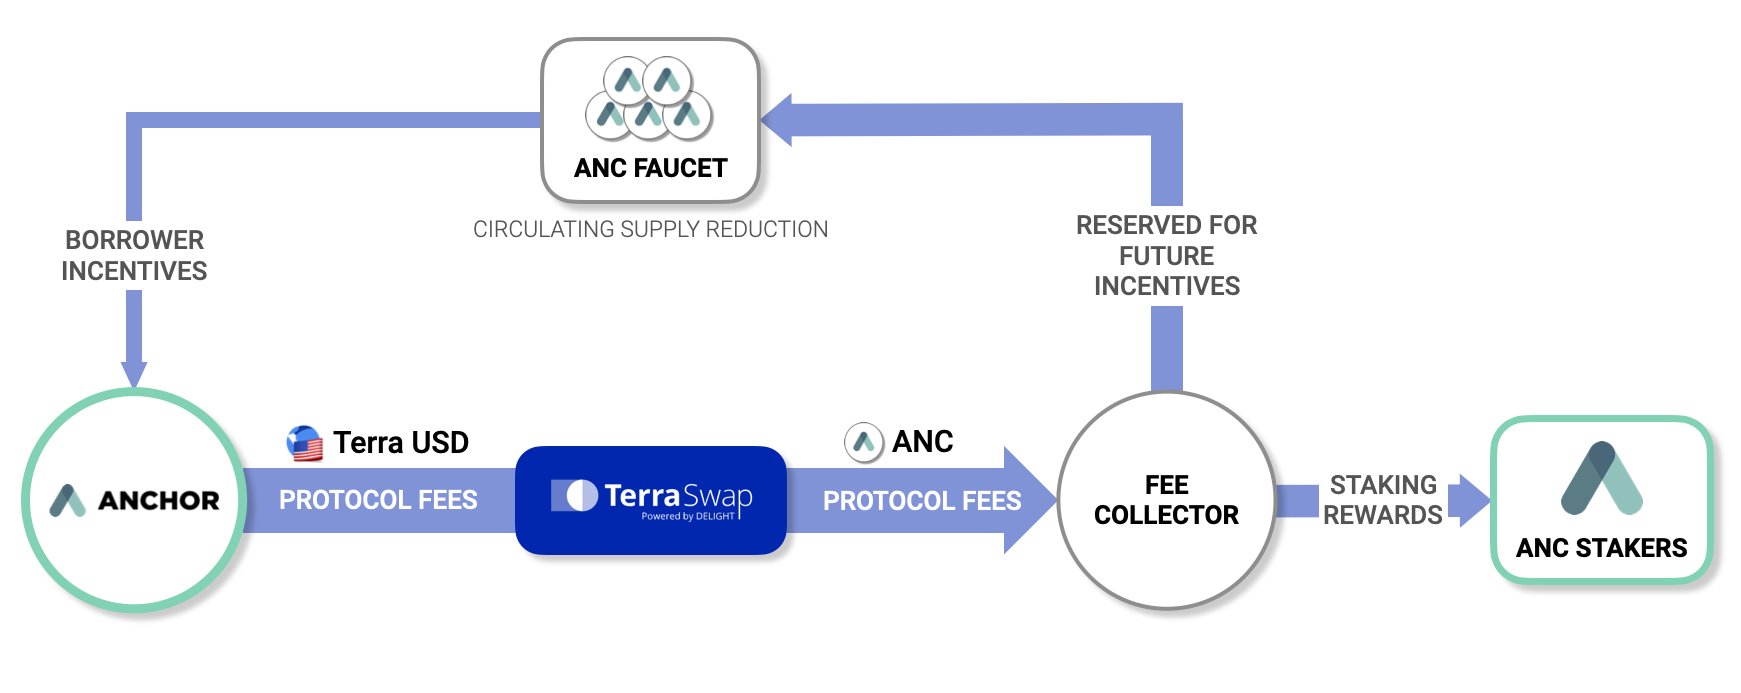
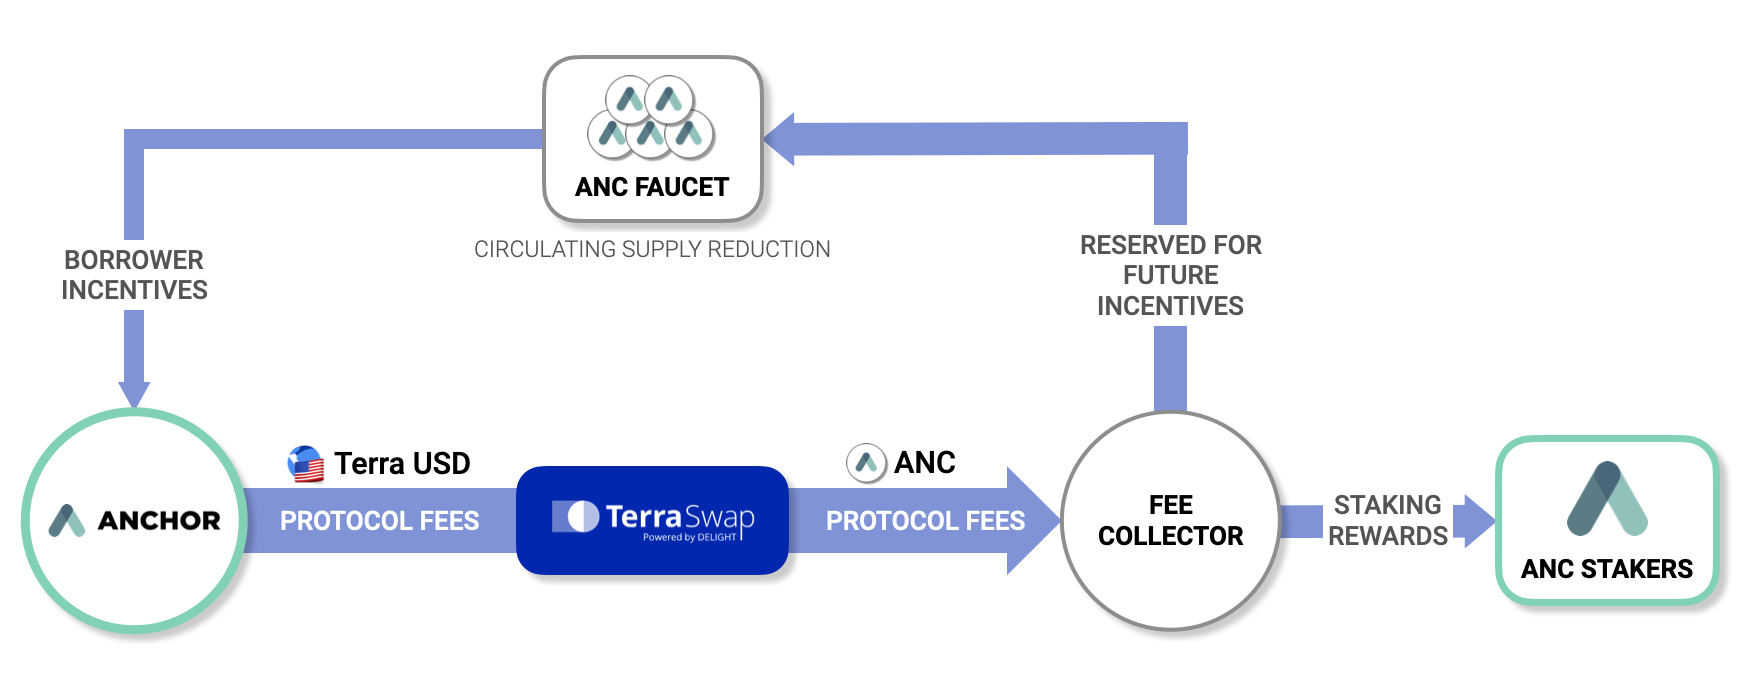
GitBook: [master] 57 pages and 16 assets modified

Changed region(s): [[0.0, 0.0303, 0.9925, 0.9394], [0.031, 0.303, 0.1241, 0.4545]]

diff --git a/user-guide/anchor-webapp.md b/user-guide/anchor-webapp.md
@@ -1,0 +1,134 @@
+# Anchor WebApp
+
+**The Anchor WebApp is the official web frontend for interacting with Anchor Protocol on the Terra network. It is located at** [**https://app.anchorprotocol.com**](https://app.anchorprotocol.com/)**.**
+
+The Anchor WebApp offers a graphical user interface for accessing Anchor's core user operations, such as depositing & redeeming Terra stablecoins, borrowing Terra stablecoins with bAssets as collateral, and participating in Anchor governance.
+
+{% hint style="warning" %}
+The Mirror web app requires [Google Chrome](https://www.google.com/chrome/) and [Station Extension](https://chrome.google.com/webstore/detail/terra-station/aiifbnbfobpmeekipheeijimdpnlpgpp) to be installed. Please follow the instructions below to set up your browser to be able to access the WebApp.
+{% endhint %}
+
+## Terra Station Extension
+
+{% hint style="warning" %}
+As of February 16th, 2021, Station Extension is only available for Chromium-based web browsers.
+{% endhint %}
+
+Station Extension is a Chrome extension that lets you interact with smart contract web frontends with a wallet embedded in your browser. When interacting with Anchor Protocol through the WebApp, the application will generate a transaction for you in the proper format that encodes your desired interaction. Station Extension will detect and prompt you to sign and broadcast it to actually execute the operation.
+
+### Installing Station Extension
+
+1. Run [Google Chrome](https://www.google.com/chrome/). Station Extension is only available for Chromium-based web browsers.   
+2. Install Station Extension [here](https://chrome.google.com/webstore/detail/terra-station/aiifbnbfobpmeekipheeijimdpnlpgpp?hl=en). 
+3. **Terra Station** should now be visible on your extensions tray. 
+
+### Creating a new wallet
+
+1. Open **Station Extension**
+
+2. Select **New Wallet**
+
+![](../.gitbook/assets/picture-1%20%282%29.png)
+
+3. Set wallet name and password. **Make sure to record 24 word seed phrase somewhere safe.** Select **\[Next\]** to proceed.
+
+![](../.gitbook/assets/picture-2.png)
+
+4. Confirm your seed phrase by inputting the correct words.
+
+![](../.gitbook/assets/picture-3.png)
+
+5. Select **\[Create a wallet\]** to finish.
+
+![](../.gitbook/assets/picture-4.png)
+
+### Using Hardware Ledger
+
+To use a hardware Ledger wallet on to sign transactions on Terra Station Extension, user must meet the conditions below:
+
+* Install Terra application using [Ledger Live](https://www.ledger.com/ledger-live/download/) application. Make sure that you have enabled Developer Mode on Ledger Live application from Settings &gt; Experimental Features to install Terra application. 
+* Both Ledger Nano S and X are supported, but the device must be connected to the computer via USB cable. **Bluetooth connection is not supported** by Station Extension
+
+To access hardware ledger wallet from Terra Station Extension, please follow the steps below: 
+
+1. Connect and unlock your Ledger device
+
+2. Open Terra application from the Ledger device
+
+3. Select **\[Access with ledger\]** on Terra Station Extension menu
+
+![](../.gitbook/assets/picture-5.png)
+
+4. Once the Ledger device is connected to Terra Station Extension successfully, user can start signing transactions with their device. 
+
+![](https://gblobscdn.gitbook.com/assets%2F-MLRzugf7mxc4ryNhTuq%2F-MMsz0hiKUhlI7K6Hu4t%2F-MMt82XaR7Sxw6v-WBj-%2Fimage.png?alt=media&token=0ae3faab-111c-4d95-b69d-4adee41f877d)
+
+### Wallet Recovery
+
+1. Select **\[Recover existing wallet\]**
+
+![](../.gitbook/assets/picture-6.png)
+
+2. Enter a new wallet name and password.
+
+![](../.gitbook/assets/screen-shot-2021-02-16-at-10.46.49-pm.png)
+
+3. Enter the 24 word seed phrase of the wallet to recover and select **\[Next\]** to finish.
+
+![](https://gblobscdn.gitbook.com/assets%2F-MLRzugf7mxc4ryNhTuq%2F-MMsCvhqtM-AVYonMZ2s%2F-MMsp341Aiv2HFDiOGsP%2Fimage.png?alt=media&token=749f32cd-1d34-412b-9af1-486be5057025)
+
+### Sending Tokens
+
+1. Select **\[Send\]** button aligned to the tokens to send.
+
+![](../.gitbook/assets/picture-7.png)
+
+2. Input the information below and select **\[Next\]**:
+
+* Address of the recipient
+* Amount of token to send
+* Memo is optional
+
+{% hint style="info" %}
+Station Extension also support cross-chain transfer to Ethereum addresses through [Shuttle](https://github.com/terra-project/shuttle) bridge. 
+{% endhint %}
+
+![](../.gitbook/assets/picture-8.png)
+
+3. Select **\[Send\]** after setting the type and amount of tokens pay as transaction fee and entering the password. 
+
+![](../.gitbook/assets/picture-9.png)
+
+4. Station Extension will display the result of the transaction. Select **\[Ok\]** to return to the main page. 
+
+![](../.gitbook/assets/picture-10.png)
+
+## Getting TerraUSD
+
+Mirror runs on the Terra blockchain, and uses TerraUSD \(UST\), a USD-pegged stablecoin, as the currency of denomination and as a form of collateral. You must have a UST balance in order to use the Mirror Web App, since it pays transaction fees in UST. In addition, it is necessary to trade mAssets and provide liquidity to mAsset/MIR Terraswap pools.
+
+There are several ways to obtain UST:
+
+* Purchasing UST from an exchange
+* Swapping LUNA or other Terra stablecoins for UST
+
+### Purchasing UST from an exchange
+
+The most direct way to obtain UST is to purchase it from an exchange. This requires having an exchange account with some funds that you can exchange into UST via a trading pair. For instance, you can purchase UST through [Bittrex](https://bittrex.com) through UST/BTC and UST/USDT markets, or on [Kucoin](https://kucoin.com) against BTC, ETH, USDT and XRP. 
+
+### Swapping LUNA or other Terra stablecoins tokens to UST
+
+If you have a Terra account with a balance of Luna or other stablecoins such as KRT, or SDT, you can turn them into UST through the Terra blockchain's native swap functionality. For instance, on [Terra Station](https://station.terra.money), the official Terra desktop wallet, you can access the swap feature through the "Swap" page.
+
+1. Navigate to the "Swap" page by clicking it on the sidebar. You should see a similar page:
+
+![](../.gitbook/assets/picture-11.png)
+
+2. There is a section near the bottom of the page titled "Swap coins". There, you can select the type of coins you want to swap into UST, based on the current "Terra exchange rate".
+
+{% hint style="info" %}
+The approximate spread and fee for swapping Luna to UST or other stablecoins to UST will be shown to you. The rules for determining the fees are covered in [Terra Docs](https://docs.terra.money/dev/spec-market).
+{% endhint %}
+
+3. Click **\[Next\]** and sign the transaction to complete the swap. 
+

diff --git a/protocol/anchor-token-anc.md b/protocol/anchor-token-anc.md
@@ -12,7 +12,7 @@ ANC is also used as incentives to bootstrap borrow demand. ANC is distributed ev
 ANC rewards can also be earned by staking LP tokens of the ANC &lt;&gt; UST Terraswap Pair.
 {% endhint %}
 
-![ANC Token Structure](../.gitbook/assets/anc_incentive_diagram%20%283%29.png)
+![ANC Token Structure](../.gitbook/assets/anc_incentive_diagram%20%281%29.png)
 
 ANC is designed to generate a buying pressure which increases proportionally with Anchor's assets under management \(AUM\). Terra stablecoins from below sources are used to purchase ANC tokens from Terraswap.
 
@@ -40,7 +40,7 @@ ANC token deposits of Anchor governance polls that have failed to reach the requ
 
 ## Anchor Token Supply
 
-There are planned to be a total of 1,000,000 ANC tokens to be distributed over a 4-year period. Beyond that, there will be no more new ANC tokens introduced to the supply.
+There are planned to be a total of **1,000,000 ANC** tokens to be distributed over a 4-year period. Beyond that, there will be no more new ANC tokens introduced to the supply.
 
 ### Cumulative Allocation Schedule
 

diff --git a/SUMMARY.md b/SUMMARY.md
@@ -5,6 +5,7 @@
 
 ## User Guide
 
+* [Anchor WebApp](user-guide/anchor-webapp.md)
 * [Deposit](user-guide/earn.md)
 * [Borrow](user-guide/borrow.md)
 * [Claim ANC Rewards](user-guide/claim-anc-rewards.md)
